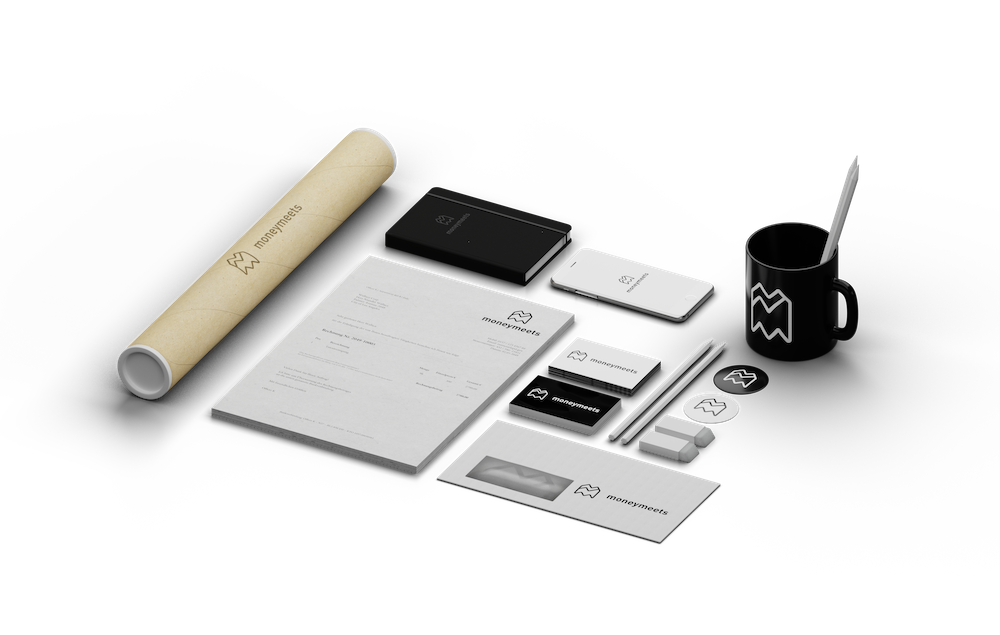
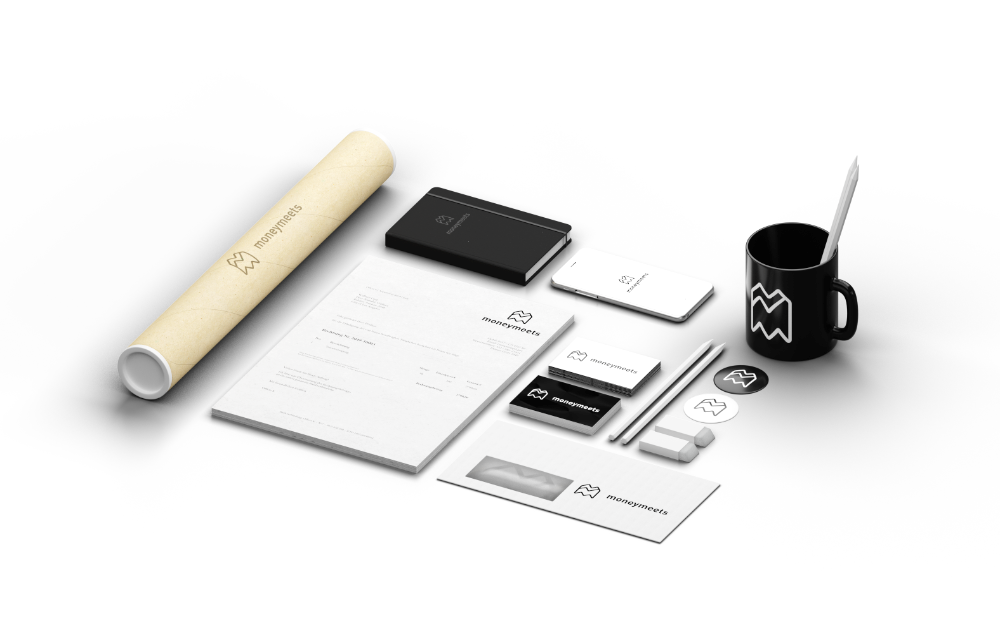
fintech header + pics

diff --git a/src/pages/blog/homelike.md b/src/pages/blog/homelike.md
@@ -1,21 +1,9 @@
 ---
-path: '/blog/my-first-post'
-date: '2017-11-07'
-title: 'My first blog post'
+path: '/blog/design_system'
+date: '2019-01-22'
+title: 'Building a Design System'
 type: 'blog'
-image: 'https://images.unsplash.com/photo-1546624462-9e3c36d657c1?ixlib=rb-1.2.1&ixid=eyJhcHBfaWQiOjEyMDd9&auto=format&fit=crop&w=2250&q=80'
+image: '../../blog/atoms.png'
 ---
 
 Hallo! Mein Name ist Marvin Kubiak, 1990 ist meine Lieblingszahl und ich beschäftige mich ständig mit Designdisziplinen wie Typografie, 3D Rendering, Farblehre und sonstigen kleinen Dingen, die die Welt ein Stückchen einfacher machen soll. Neuerdings beschäftige ich mit den Prozessen in der User Exprerience und das Aufziehen eines Visual Design
-
-Hallo! Mein Name ist Marvin Kubiak, 1990 ist meine Lieblingszahl und ich beschäftige mich ständig mit Designdisziplinen wie Typografie, 3D Rendering, Farblehre und sonstigen kleinen Dingen, die die Welt ein Stückchen einfacher machen soll. Neuerdings beschäftige ich mit den Prozessen in der User Exprerience und das Aufziehen eines Visual Design
-
-Hallo! Mein Name ist Marvin Kubiak, 1990 ist meine Lieblingszahl und ich beschäftige mich ständig mit Designdisziplinen wie Typografie, 3D Rendering, Farblehre und sonstigen kleinen Dingen, die die Welt ein Stückchen einfacher machen soll. Neuerdings beschäftige ich mit den Prozessen in der User Exprerience und das Aufziehen eines Visual Design
-
-![Bild](https://source.unsplash.com/random/800x600)
-
-Hallo! Mein Name ist Marvin Kubiak, 1990 ist meine Lieblingszahl und ich beschäftige mich ständig mit Designdisziplinen wie Typografie, 3D Rendering, Farblehre und sonstigen kleinen Dingen, die die Welt ein Stückchen einfacher machen soll. Neuerdings beschäftige ich mit den Prozessen in der User Exprerience und das Aufziehen eines Visual Design
-
-Hallo! Mein Name ist Marvin Kubiak, 1990 ist meine Lieblingszahl und ich beschäftige mich ständig mit Designdisziplinen wie Typografie, 3D Rendering, Farblehre und sonstigen kleinen Dingen, die die Welt ein Stückchen einfacher machen soll. Neuerdings beschäftige ich mit den Prozessen in der User Exprerience und das Aufziehen eines Visual Design
-
-![Bild](https://source.unsplash.com/random/800x600)

diff --git a/src/pages/portfolio/ci_fintech.md b/src/pages/portfolio/ci_fintech.md
@@ -9,12 +9,12 @@ headerColor: 'radial-gradient(circle at 47% 57%, #999999, #6a6a6a)'
 featured: true
 ---
 
-_What if?_
-The old Corporate Identity from a german Fintech startup has its origin in the year 2011, but the Business focus shifted a lot since. In times where a brand has to be presented on all plattforms and screensizes the CI has to be adaptive from the start. From classic Print to adaptive screensizes the Corporate Identity was build from scratch and presented on different mediums.
+What if? The old Corporate Identity from a german Fintech startup has its origin in the year 2011, but the Business focus shifted a lot since. In times where a brand has to be presented on all plattforms and screensizes the CI has to be adaptive from the start. From classic print to adaptive screensizes the Corporate Identity was build from scratch and presented on different mediums.
 
-_Was wäre wenn?_ <br>
-Die mittlerweile veraltete Corporate Identity von moneymeets stammt noch aus der Gründerzeit 2011, doch die Geschäftsstrategtie hat sich seitdem fundamental geändert. In Zeiten wo Unternehmen auf allen Medien und Platformen vertreten sein wollen, muss die Marke und das CI flexibel und einfach zu verstehen sein.
-Von Geschäftspapieren bis zu Smartphones sollte die Erscheinung der Marke funktionieren.
-Anschließend habe wurde das neue Logo auf verschiedenen Trägermedien in 3D gerendert.
+For this I created a studio mockup and tried different lighting setups to present the CI on different materials. All was created in 3D and rendered.
 
-![CI](../../images/work/fintech_mockup.jpg)
+![CI](../../images/work/fintech_5.jpg)
+![CI](../../images/work/fintech_4.jpg)
+![CI](../../images/work/fintech_3.jpg)
+![CI](../../images/work/fintech_2.jpg)
+![CI](../../images/work/fintech_1.jpg)
